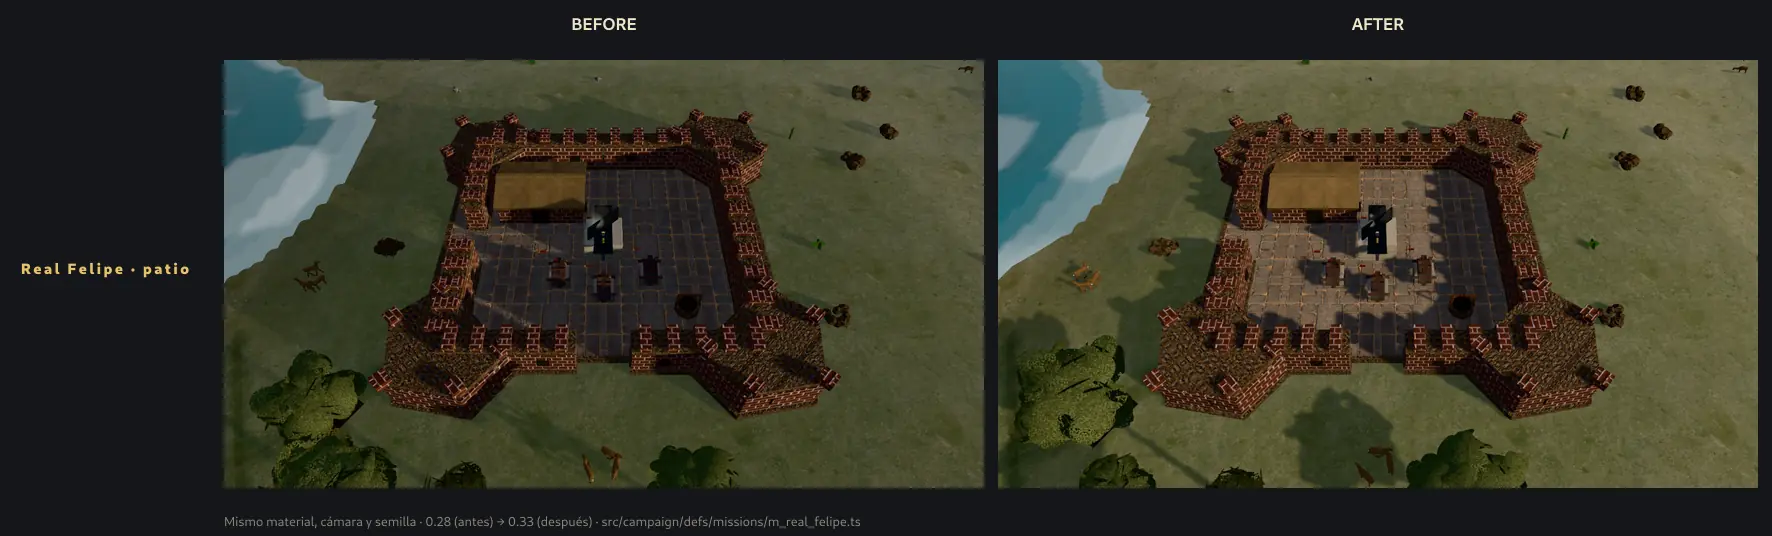
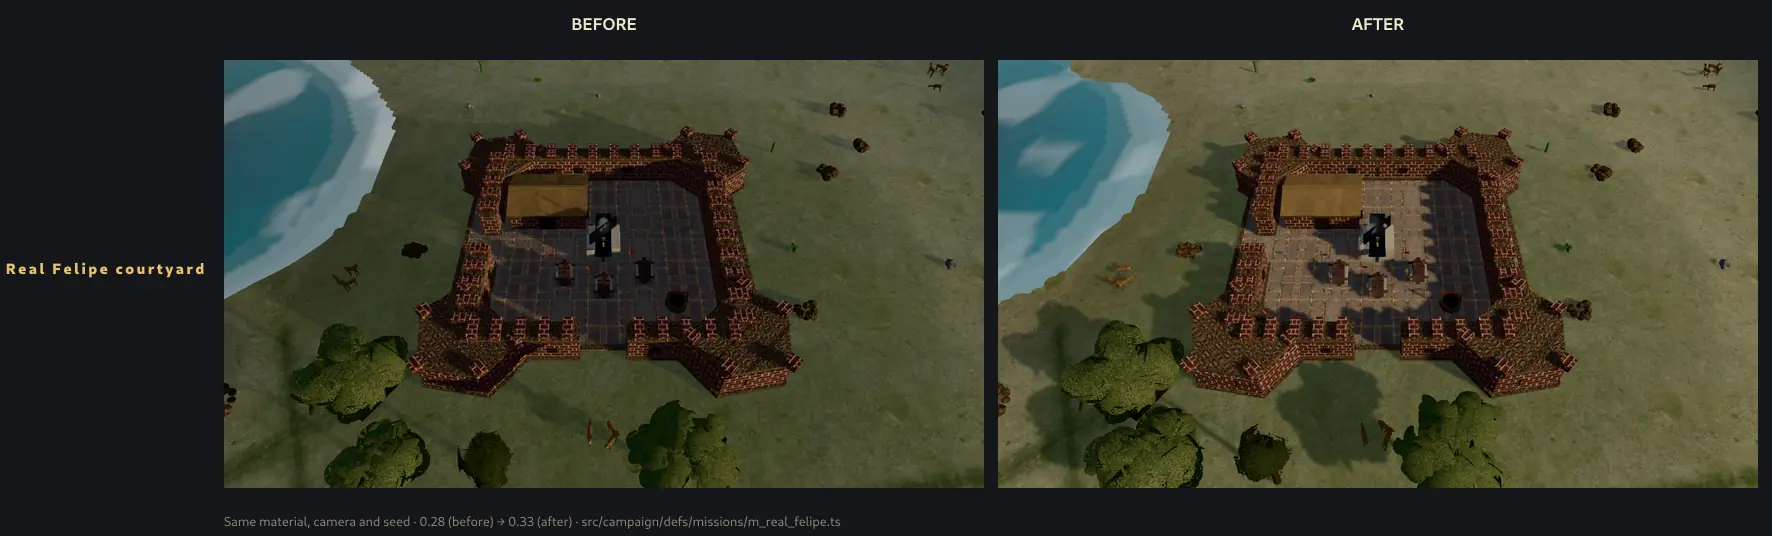
fix(real-felipe): document the sun and the capture recipe
Review fixes on the Real Felipe light:

- State the measured sun elevation: about 11° at 0.28 and about 28° at 0.33, not 27°.
- Generalise the `timeOfDayValue` comment: it can raise or lower the preset, with Tambotoco and Real Felipe
  as the two precedents.
- Put the full reproduction recipe in PROVENANCE (height 54, the `_0` capture rename and the complete
  `sites_sheet.mjs` command) and use an English footer in the sheet.
- Note the live light in the mission doc so the numeric spec is not only in `republic-sites.md`.

diff --git a/src/campaign/types.ts b/src/campaign/types.ts
@@ -499,8 +499,9 @@ export interface MissionDef {
   commanders?: PortraitId[];
   timeOfDay: 'morning' | 'noon' | 'dusk' | 'night';
   /**
-   * Optional explicit sun time (0 night .. 1 day) when the named preset is not low enough for the
-   * scene, e.g. the long-shadow morning of the Tambotoco pilot.
+   * Optional explicit sun time (0 night .. 1 day) when the named preset does not fit the scene, e.g. the
+   * long-shadow morning of the Tambotoco pilot or the higher dusk sun that keeps the Real Felipe courtyard
+   * out of the walls' shadow.
    */
   timeOfDayValue?: number;
   startingEra: Era;

diff --git a/src/campaign/defs/missions/m_real_felipe.ts b/src/campaign/defs/missions/m_real_felipe.ts
@@ -81,7 +81,7 @@ export const mRealFelipe: MissionDef = {
   },
   atmosphere: { fogDensity: 0.0018, sunWarmth: 0.92, skyTint: '#d2d4ce' },
   // The dusk palette stays, but 0.28 puts the sun at ~11° and the walls shadow the whole courtyard;
-  // 0.33 lifts it to ~27° so the paved patio reads warm instead of navy.
+  // 0.33 lifts it to ~28° so the paved patio reads warm instead of navy.
   timeOfDay: 'dusk',
   timeOfDayValue: 0.33,
   startingEra: Era.REPUBLIC,

diff --git a/PROVENANCE.md b/PROVENANCE.md
@@ -1364,8 +1364,13 @@ slot is absent (offline / without assets).
 
 - **Location**: `docs/media/republic-fort-courtyard-light-before-after.webp`, 1772x536 WebP q74.
 - **Source**: `yarn shot real-felipe-courtyard --url="/?mission=m_real_felipe&seed=777&fog=0&intro=0"
-  --click --site --height=48 --no-hud --no-labels --wait=9000`; the before row runs the same command from
-  a worktree at `main` (0.28), the after row on this change (0.33), then `scripts/sites_sheet.mjs`.
+  --click --site --height=54 --no-hud --no-labels --wait=9000`; the before row runs the same command from
+  a worktree at `main` (0.28), the after row on this change (0.33). Each run writes
+  `review/real-felipe-courtyard_0.png`; rename it to `review/real-felipe-{before,after}/courtyard_0.png`,
+  then compose with `node scripts/sites_sheet.mjs --before=review/real-felipe-before
+  --after=review/real-felipe-after --rows=courtyard --captions="Real Felipe courtyard"
+  --out=docs/media/republic-fort-courtyard-light-before-after.webp --footer="Same material, camera and seed ·
+  0.28 (before) → 0.33 (after) · src/campaign/defs/missions/m_real_felipe.ts"`.
 - **Content**: the same fort, camera, seed and warmed `MAT-Arch_RepublicPlaza`; the only intentional
   difference is the mission's sun elevation. The before courtyard is in the walls' shadow and reads navy;
   the after one is sunlit and reads warm stone.

diff --git a/docs/design/real-felipe-model-mission.md b/docs/design/real-felipe-model-mission.md
@@ -67,7 +67,8 @@ Optional/failure: if Salom dies or the camp falls, the mission is lost.
 ## Opening and closing
 
 - Cinema intro (`introStyle: 'cinema'`, see `src/ui/CinemaIntro.ts`): the Real Felipe on the bay at dusk
-  (`cine-bastion`, push-in); a campaign map painted from this terrain with the camp, the two battery nodes,
+  (`cine-bastion`, push-in; the live mission uses the still's 0.33 sun, so the courtyard is not lost in the
+  walls' shadow); a campaign map painted from this terrain with the camp, the two battery nodes,
   the blockade shore (dashed) and Rodil's sortie toward the camp, all from the `REAL_FELIPE_*` constants; a
   siege battery with its guns on the fortress (`cine-baterias`, pan). The hunger and the capitulation stay
   for the act cards and the epilogue. Stills: `node scripts/capture_cinema.mjs --mission=m_real_felipe

diff --git a/docs/design/republic-sites.md b/docs/design/republic-sites.md
@@ -151,7 +151,7 @@ historical claim.
 
 The courtyard still received only the blue hemisphere light: at `timeOfDay: 'dusk'` (`t = 0.28`, a sun
 about 11° above the horizon) the walls shadowed almost all of it, so even the warmed slab read navy. The
-mission now sets `timeOfDayValue: 0.33` (a sun about 27°), the light its `cine-bastion` still already uses
+mission now sets `timeOfDayValue: 0.33` (a sun about 28°), the light its `cine-bastion` still already uses
 (`time: 0.33` in `scripts/cinema-shots/independencia.mjs`), so the patio reads warm without changing the
 dusk label or the intro. The still is unchanged and now matches the live mission. Evidence:
 `docs/media/republic-fort-courtyard-light-before-after.webp`.
